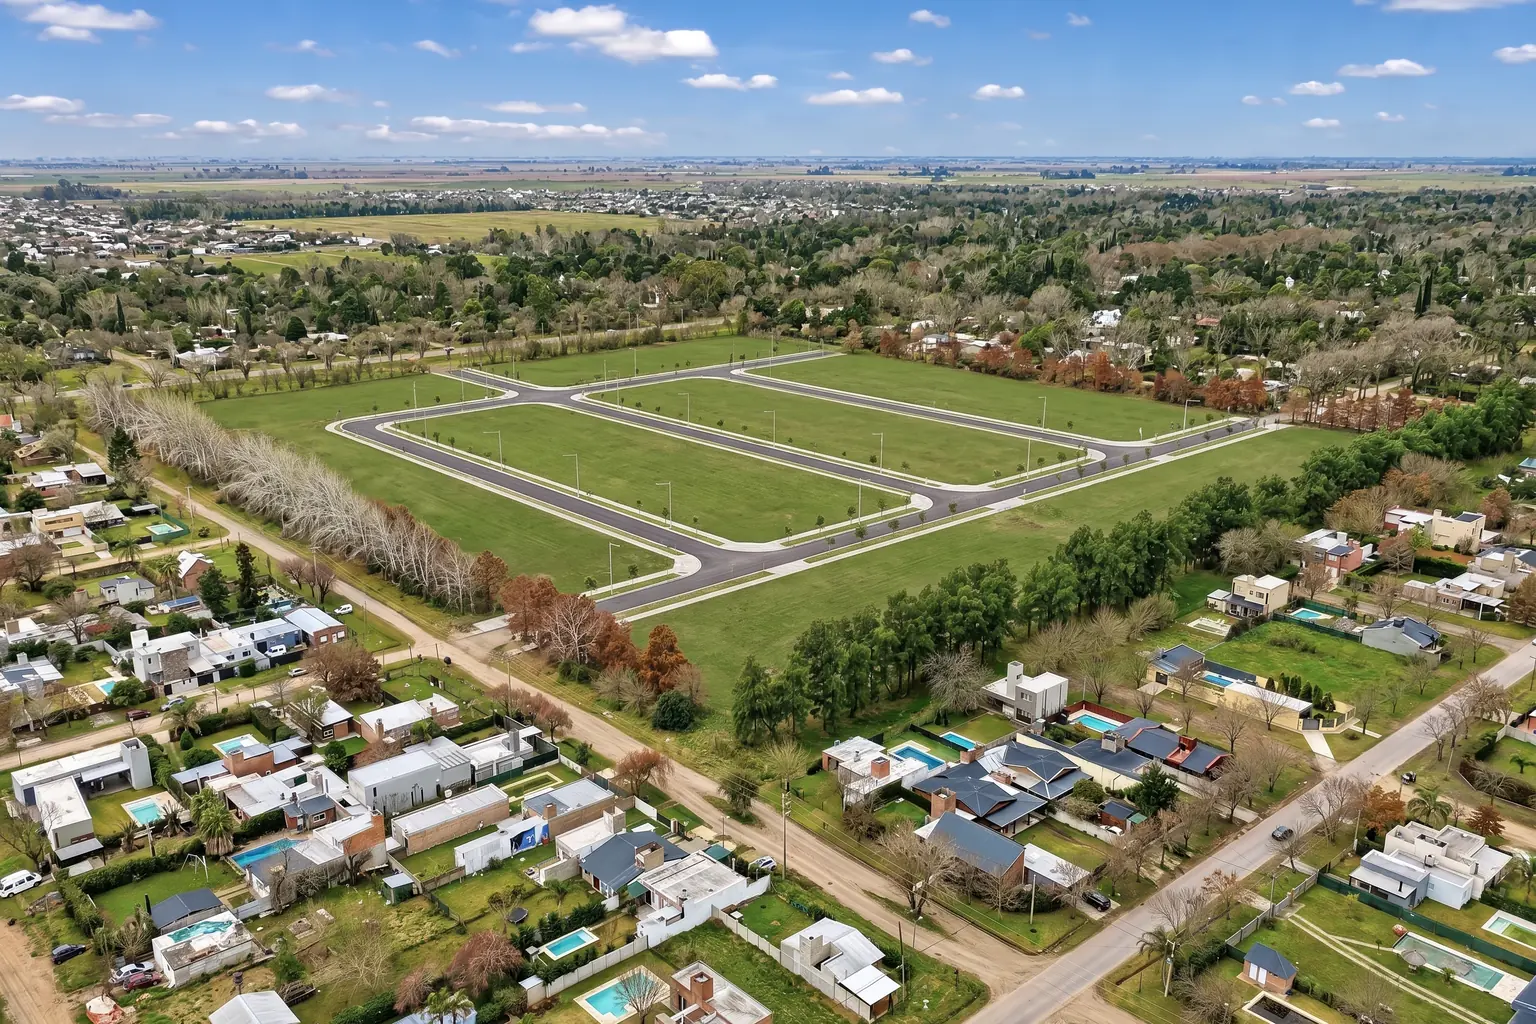
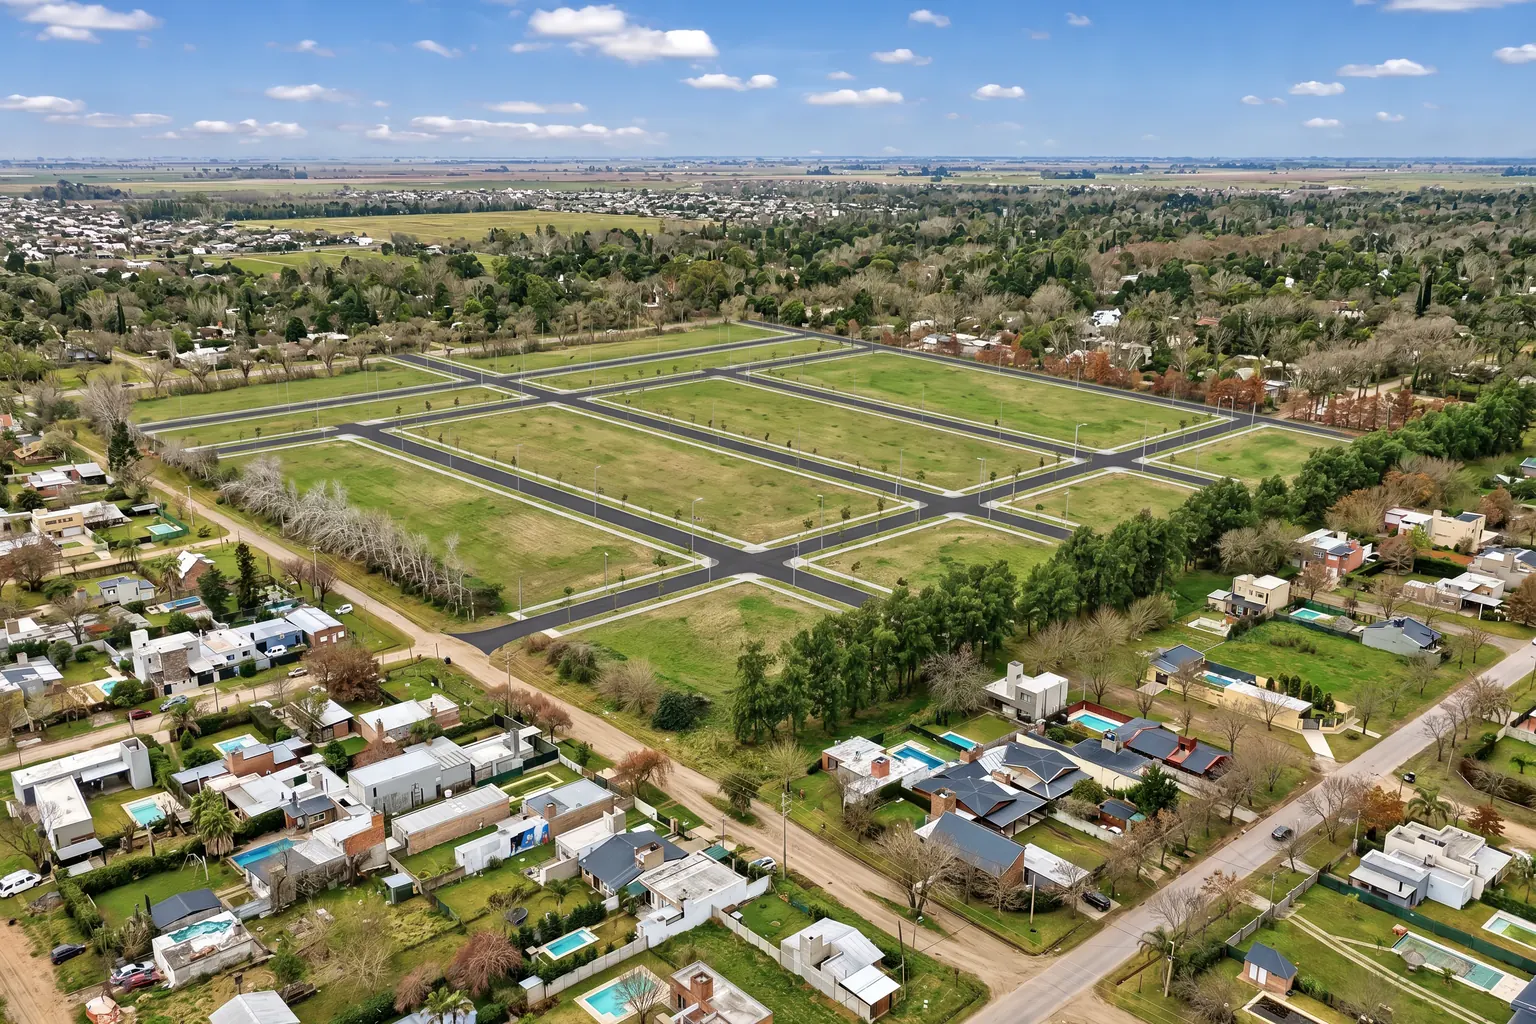
fix(distrito-roldan): vistas 2027 con la traza EXACTA del plano
David (23-oct-2026): "las calles no son como las dibujaste, continúan más la
traza... guiate con el plano que está desde arriba".

Las calzadas del plano (public/planos/distrito-roldan.html) se proyectan en
perspectiva sobre la foto real obra-5 (homografía con 6 cruces de calles,
validada superponiendo la satelital del plano) y recién ahí se pasan a foto
con IA, verificando que ninguna calle se movió. Ahora están todas: las tres
transversales de punta a punta, San Pedro, María Auxiliadora (hasta Ruta 9),
María Teresa y Don Bosco, sin casas. La nocturna de Infraestructura es la
misma vista re-iluminada. Receta en ~/si-crm/scripts/distrito-roldan-2027/.

Changed region(s): [[0.0, 0.1562, 1.0, 1.0], [0.9688, 0.9688, 1.0, 1.0]]

diff --git a/src/components/distrito-roldan/avancesObra.ts b/src/components/distrito-roldan/avancesObra.ts
@@ -18,10 +18,14 @@ export const AVANCES_FOTOS: { src: string; alt: string; aspect: '3/2' | '2/3' }[
 ]
 
 // Comparador "hoy / agosto 2027": la misma toma de drone dos veces. La de 2027
-// se generó con IA (Higgsfield, 22-oct-2026) A PARTIR de esta foto real, con
-// las calles, el cordón, las luminarias y los árboles terminados y SIN casas
-// (para construir hay que terminar de pagar el lote). Si cambia la foto de
-// "hoy", hay que regenerar la de 2027 desde la nueva para que calcen.
+// sale de esta foto real con la traza EXACTA del plano (calzadas de
+// public/planos/distrito-roldan.html) proyectada en perspectiva —homografía
+// calibrada con 6 cruces de calles y validada con la satelital del plano— y
+// después pasada a foto con IA (Higgsfield), verificando que ninguna calle se
+// movió. Sin casas: para construir hay que terminar de pagar el lote. 23-oct:
+// rehecha porque la primera versión inventaba la traza (David: "las calles
+// continúan más"). Receta en ~/si-crm/scripts/distrito-roldan-2027/. Si cambia
+// la foto de "hoy", se recalibra y se regenera desde la nueva.
 export const COMPARADOR = {
   hoy: {
     src: '/images/distrito-roldan/obra-5.webp',

diff --git a/src/components/distrito-roldan/SeccionServicios.tsx b/src/components/distrito-roldan/SeccionServicios.tsx
@@ -1,7 +1,9 @@
 // Servicios e infraestructura, con una imagen grande al lado (22-oct-2026):
 // la aérea del barrio terminado al anochecer, con las luminarias prendidas y
 // los lotes vacíos (imagen ilustrativa, sin casas: para construir hay que
-// terminar de pagar). "Sin expensas" va primero: lo confirmó David el 11-oct.
+// terminar de pagar). Es la misma vista del comparador 2027, con la traza
+// exacta del plano, re-iluminada (ver COMPARADOR en avancesObra.ts).
+// "Sin expensas" va primero: lo confirmó David el 11-oct.
 
 import Image from '@/components/Imagen'
 import { Construction, Droplets, Flame, PiggyBank, Store, TreePine, Zap } from 'lucide-react'
